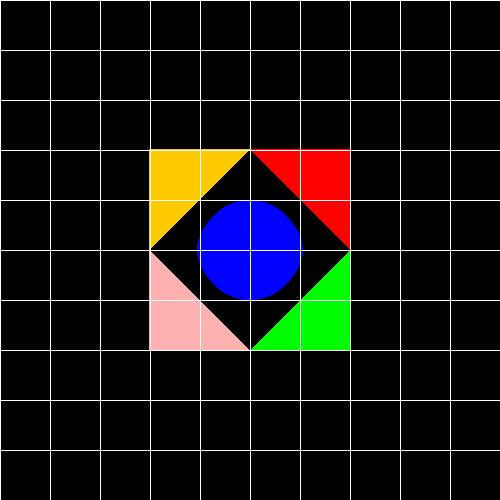
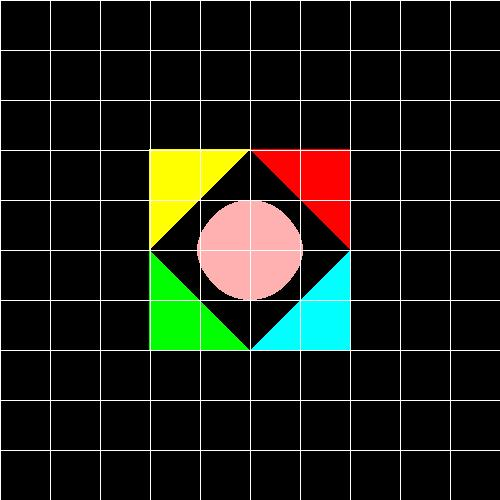
tests

Changed region(s): [[0.27, 0.3, 0.72, 0.72], [0.39, 0.39, 0.63, 0.6]]

diff --git a/AllLevels/src/UnitTests/ImageWriterTest.java b/AllLevels/src/UnitTests/ImageWriterTest.java
@@ -9,34 +9,34 @@ public class ImageWriterTest {
 
 	@Test
 	public void writeImageTest(){
-		
+
 		ImageWriter imageWriter = new ImageWriter("Image writer test", 500, 500, 1, 1);
-              Random rand = new Random();		
+		Random rand = new Random();		
 		for (int i = 0; i < imageWriter.getHeight(); i++){
 			for (int j = 0; j < imageWriter.getWidth(); j++)
-                     {
-				
+			{
+
 				if (i % 25 == 0 || j % 25 == 0 || i == j || i == 499 || j == 499 || i == 500 - j)
 					imageWriter.writePixel(j, i, 0, 0, 0);  // Black
-                             else
-                                if(i >= 200 && i <= 300 && j >= 200 && j <= 300)
-                                        imageWriter.writePixel(j, i, 255, 0, 0); // Red
-                             else
-                                if(i >= 150 && i <= 350 && j >= 150 && j <= 350)
-                                        imageWriter.writePixel(j, i, 0, 255, 0);  // Green
-                             else
-                                 if(i >= 100 && i <= 400 && j >= 100 && j <= 400)
-                                        imageWriter.writePixel(j, i, 0, 0, 255); // Blue 
-                             else
-                                 if(i >= 50 && i <= 450 && j >= 50 && j <= 450)
-                                            imageWriter.writePixel(j, i, 255, 255, 0); // Yellow
-                             else
-                                imageWriter.writePixel(j, i, rand.nextInt(255), rand.nextInt(255), rand.nextInt(255)); // Random
+				else
+					if(i >= 200 && i <= 300 && j >= 200 && j <= 300)
+						imageWriter.writePixel(j, i, 255, 0, 0); // Red
+						else
+							if(i >= 150 && i <= 350 && j >= 150 && j <= 350)
+								imageWriter.writePixel(j, i, 0, 255, 0);  // Green
+								else
+									if(i >= 100 && i <= 400 && j >= 100 && j <= 400)
+										imageWriter.writePixel(j, i, 0, 0, 255); // Blue 
+										else
+											if(i >= 50 && i <= 450 && j >= 50 && j <= 450)
+												imageWriter.writePixel(j, i, 255, 255, 0); // Yellow
+												else
+													imageWriter.writePixel(j, i, rand.nextInt(255), rand.nextInt(255), rand.nextInt(255)); // Random
 			}
 		}
-		
+
 		imageWriter.writeToimage();
 
 	}
-	
+
 }

diff --git a/AllLevels/src/UnitTests/CameraTest.java b/AllLevels/src/UnitTests/CameraTest.java
@@ -16,68 +16,12 @@ public class CameraTest {
 		Camera c = new Camera(vup, vto);
 		Ray ray = c.constructRayThroughPixel(3, 3, 3, 3, 100, 150, 150);
 		Point3D centerPoint = new Point3D(100,-100,-100);
-		Vector direction = new Vector(-0.57735026918962578, -0.5773502691896258, -0.5773502691896258);
+		Vector direction = new Vector(-0.57735026918962577, -0.5773502691896257, -0.5773502691896257);
 
 		Ray answer = new Ray(centerPoint, direction);
 
 		assertEquals(answer, ray);
 	}
-	/*
-	@Test
-	public void testConstructRay2() throws Exception {
-
-		final int WIDTH  = 3;
-		final int HEIGHT = 3;
-
-		Point3D p = new Point3D(new Coordinate(0.0), new Coordinate(0.0), new Coordinate(0.0));
-		Point3D p1 = new Point3D(new Coordinate(0.0), new Coordinate(1.0), new Coordinate(0.0));
-		Point3D p2 = new Point3D(new Coordinate(0.0), new Coordinate(0.0), new Coordinate(-1.0));
-
-
-		Vector v1 = new Vector(p1);
-		Vector v2 = new Vector(p2);
-
-		Point3D[][] screen = new Point3D [HEIGHT][WIDTH];
-
-		Camera camera = new Camera(v1, v2);
-
-		System.out.println("Camera:\n" + camera);
-		System.out.println("##");
-
-		for (int i = 0; i < HEIGHT; i++){
-			for (int j = 0; j < WIDTH; j++){
-
-				Ray ray = camera.constructRayThroughPixel(WIDTH, HEIGHT, j, i, 1, 3 * WIDTH, 3 * HEIGHT);
-
-				screen[i][j] = ray.getPOO();
-
-				System.out.print(" ^^ " + screen[i][j]);
-				System.out.println(" *** " + ray.getDirection());
-
-				// Checking z-coordinate
-				assertTrue(Double.compare(screen[i][j].getZ().getCoordinate(), -1.0) == 0);
-
-				// Checking all options
-				double x = screen[i][j].getX().getCoordinate();
-				double y = screen[i][j].getX().getCoordinate();
-
-				if (Double.compare(x, 3) == 0 || 
-						Double.compare(x, 0) == 0 ||
-						Double.compare(x, -3) == 0){
-					if (Double.compare(y, 3) == 0 || 
-							Double.compare(y, 0) == 0 ||
-							Double.compare(y, -3) == 0){
-						assertTrue(true);
-					} else {
-						fail("Wrong y coordinate");
-					}
-				} else {
-					fail("Wrong x coordinate");
-				}
-
-			}
-			System.out.println("Test_Passed");
-		}*/
 
 }
 

diff --git a/AllLevels/src/renderer/Render.java b/AllLevels/src/renderer/Render.java
@@ -40,20 +40,7 @@ public class Render {
 	 * renderImage - A function whose function is to produce the actual image
 	 * @throws Exception 
 	 */
-	// ***************** Operations ******************** //
 
-	/**
-	 * printGrid
-	 * @param interval
-	 */
-	public void printGrid(int interval){
-		for (int i=0;i<_imagewriter.getHeight();i++)
-            for (int j=0;j<_imagewriter.getWidth();j++)
-            {
-                if(i%interval==0 || j%interval==0 )
-                	_imagewriter.writePixel(j,i,Color.WHITE); 
-            }   
-	}
 	/**
 	 * get_scene
 	 * @return
@@ -88,6 +75,20 @@ public class Render {
 		return "Render [_scene=" + _scene + ", _imagewriter=" + _imagewriter + "]";
 	}
 
+	// ***************** Operations ******************** //
+
+	/**
+	 * printGrid
+	 * @param interval
+	 */
+	public void printGrid(int interval){
+		for (int i=0;i<_imagewriter.getHeight();i++)
+            for (int j=0;j<_imagewriter.getWidth();j++)
+            {
+                if(i%interval==0 || j%interval==0 )
+                	_imagewriter.writePixel(j,i,Color.WHITE); 
+            }   
+	}
 	public void renderImage() throws Exception
 	{
 		for (int i=0;i<_imagewriter.getHeight();i++){
@@ -152,15 +153,12 @@ public class Render {
 	public Color calcColor(Geometry geometry, Point3D p)
 	{
 		Color ambientLight = _scene.get_ambientLight().getIntensity();
-		//System.out.println("color of ambient "+ambientLight);
 		Color emissionLight = geometry.getEmmission();
-		//System.out.println("color of emission "+emissionLight);
-		
+	
 		int red = Math.max(0, Math.min(255, ambientLight.getRed() + emissionLight.getRed()));
 		int green = Math.max(0, Math.min(255, ambientLight.getGreen() + emissionLight.getGreen()));
 		int blue = Math.max(0, Math.min(255, ambientLight.getBlue() + emissionLight.getBlue()));
-		Color IO = new Color(red, green, blue);
-		return IO;
+		return new Color(red, green, blue);
 	}
 
 }

diff --git a/AllLevels/src/UnitTests/RenderTest.java b/AllLevels/src/UnitTests/RenderTest.java
@@ -19,21 +19,21 @@ public class RenderTest {
 			
 			Scene scene = new Scene();
 			
-			scene.addGeometry(new Sphere(Color.blue,50,new Point3D(0.0, 0.0, -150)));
+			scene.addGeometry(new Sphere(Color.pink,50,new Point3D(0.0, 0.0, -150)));
 			
 			Triangle triangle = new Triangle(Color.red,new Point3D( 100, 0, -149),
 					 						 new Point3D(  0, 100, -149),
 					 						 new Point3D( 100, 100, -149));
 			
-			Triangle triangle2 = new Triangle(Color.green,new Point3D( 100, 0, -149),
+			Triangle triangle2 = new Triangle(Color.cyan,new Point3D( 100, 0, -149),
 					 			 			  new Point3D(  0, -100, -149),
 					 			 			  new Point3D( 100,-100, -149));
 			
-			Triangle triangle3 = new Triangle(Color.orange,new Point3D(-100, 0, -149),
+			Triangle triangle3 = new Triangle(Color.yellow,new Point3D(-100, 0, -149),
 					 						  new Point3D(  0, 100, -149),
 					 						  new Point3D(-100, 100, -149));
 			
-			Triangle triangle4 = new Triangle(Color.pink,new Point3D(-100, 0, -149),
+			Triangle triangle4 = new Triangle(Color.green,new Point3D(-100, 0, -149),
 					 			 			  new Point3D(  0,  -100, -149),
 					 			 			  new Point3D(-100, -100, -149));
 			

diff --git a/AllLevels/src/UnitTests/PlaneTest.java b/AllLevels/src/UnitTests/PlaneTest.java
@@ -17,28 +17,7 @@ public class PlaneTest { //
 
 	@Test
 	public void test() throws Exception {
-		/*Vector v = new Vector(1,2,3);
-		Point3D p = new Point3D(3,4,5);
-		Plane p1 = new Plane(p,v);
-		
-		Vector v1 = new Vector(p1.getNormal(new Point3D()));
-		String str = v1.toString();
-		assertEquals("Vector [_head=Point3D [_x=Coordinate [_coordinate=1.0], _y=Coordinate [_coordinate=2.0]_z=Coordinate [_coordinate=3.0]]]",str);
-
-		Vector answer = new Vector(0,0, -1);
-
-		Point3D directionPoint = new Point3D(0, 0, -1);
-		Point3D planePoint = new Point3D(0, 100, -200);
-		Point3D normalPoint = new Point3D(1, 1, -200);
-		
-		Vector direction = new Vector(directionPoint);
-		
-		Plane plane = new Plane(Color.white, planePoint, direction);
-				
-		Vector vector = plane.getNormal(normalPoint);
-		assertEquals(answer, vector);
-		*/
-
+	
 		// creating the expected values
 		
 		List<Point3D> answerList = new ArrayList<Point3D>();		

diff --git a/AllLevels/src/UnitTests/SphereTest.java b/AllLevels/src/UnitTests/SphereTest.java
@@ -13,24 +13,6 @@ public class SphereTest {
 
 	@Test
 	public void test() throws Exception {
-		/*Point3D p=new Point3D(80, 79, 38);
-		Point3D p1=new Point3D(80, 76, 24);
-		Sphere s1=new Sphere(p,100);
-		Vector v= new Vector(s1.getNormal(p1));
-		String str = v.toString();
-		assertEquals("Vector [_head=Point3D [_x=Coordinate [_coordinate=0.0], _y=Coordinate [_coordinate=-0.20952908873087345]_z=Coordinate [_coordinate=-0.9778024140774094]]]",str);
-		
-	Vector answer = new Vector(0.7071067811865475, 0.7071067811865475, 0.0);
-		
-		Point3D p4 = new Point3D(0, 0, -400);
-		Point3D p5 = new Point3D(1,1, -400);
-		
-		Sphere sphere = new Sphere(Color.white,p4,200);
-			
-		Vector vector = sphere.getNormal(p5);
-		assertEquals(answer, vector);
-		*/
-		
 
 		// creating the expected values
 		List<Point3D> answerList1 = new ArrayList<Point3D>();

diff --git a/AllLevels/src/primitives/Ray.java b/AllLevels/src/primitives/Ray.java
@@ -33,6 +33,20 @@ public class Ray
 	public Vector getDirection() { return new Vector(_direction); }
 	public Point3D getPOO()        { return new Point3D(_POO); }
 	
+	//******************* Administration ****************//	
+	@Override
+	public boolean equals(Object other)
+	{
+		if(other==this)
+			return true;
+		if(!(other instanceof Ray))
+			return false;
+		Ray ray = (Ray) other;
+		return this._POO.equals(ray._POO) && this._direction.equals(ray._direction);
+		//return false;
+		
+	}
+	
 	@Override
 	public String toString() {
 		return "Ray [point=" + _POO + ", direction=" + _direction + "]";

diff --git a/AllLevels/src/UnitTests/PrimitivesTest.java b/AllLevels/src/UnitTests/PrimitivesTest.java
@@ -46,7 +46,7 @@ public class PrimitivesTest
 		v1.add(v1);
 		assertEquals("Vector via: (2.2,4.4,6.6)",v1.toString());
 
-		// Test07: Vector Substruct test
+		// Test07: Vector Subtract test
 
 		Vector v3 = new Vector(1.0, 1.0, 1.0);
 		v3.subtract(new Vector(1.0, 1.0, 1.0));
@@ -72,10 +72,10 @@ public class PrimitivesTest
 		assertEquals(5,len,0);
 
 		// Test11: Vector Normalize test
-
-		v2.setHead(new Point3D(3.0,4.0,0.0));
 		try {
-			v2=v2.normalize();
+		v2.setHead(new Point3D(3.0,4.0,0.0));
+
+		v2.normalize();
 		}
 		catch(Exception a)
 		{

diff --git a/AllLevels/src/elements/Camera.java b/AllLevels/src/elements/Camera.java
@@ -59,7 +59,15 @@ public class Camera {
 	public String toString() {
 		return "Camera [_p=" + _P0 + ", VUP=" + _vUp + ", VRIGHT=" + _vRight + ", VTOWARD=" + _vTo + "]";
 	}
-
+	
+/*	
+	@Override
+	public Boolean equals(object other)
+	{
+		
+	}
+*/
+	
 	/**
 	 * function that creates a ray through a pixel
 	 * @param Nx - The width of each single pixel

diff --git a/AllLevels/src/geometries/Geometry.java b/AllLevels/src/geometries/Geometry.java
@@ -47,7 +47,7 @@ public abstract class Geometry {
 	//***************abstract findIntersection Function**************//
 	public abstract List<Point3D> findIntersection(Ray ray) throws Exception;
 	
-	/******ToString - Print***/
+	
 	@Override
 	public String toString() {
 		return "Geometry [_color=" + _emmission + "]";
